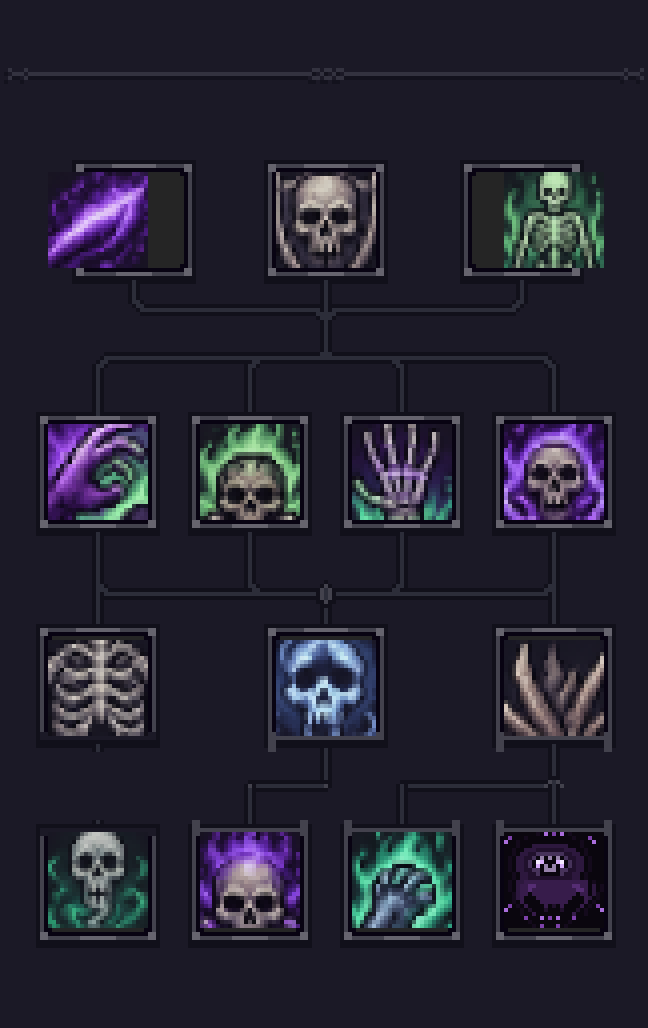
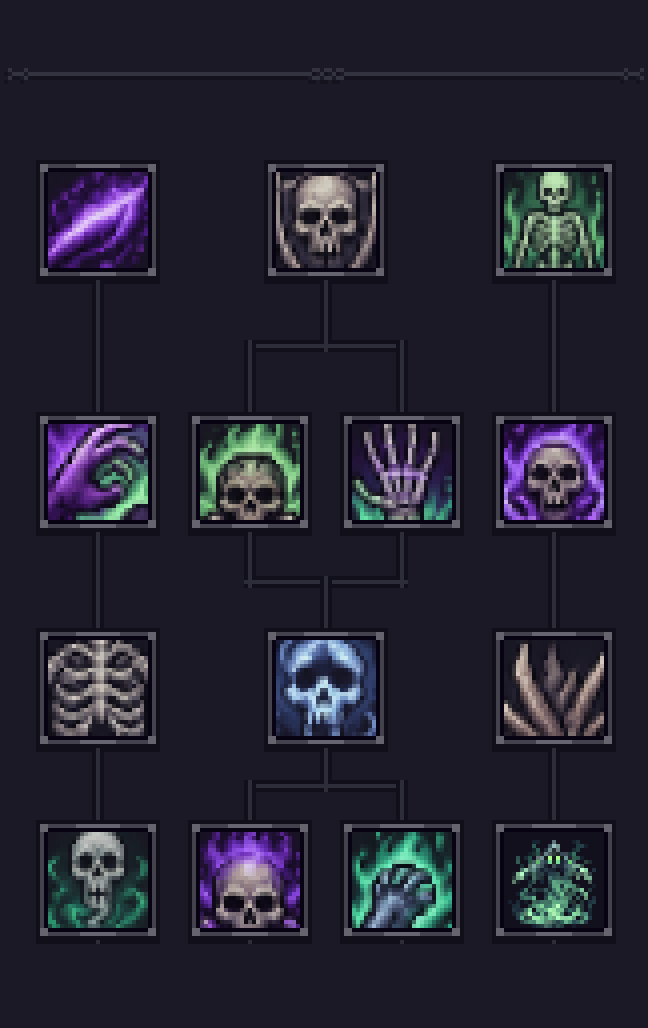
Add Summoner Pack Link and refresh Wraith previews
Add Pack Link skill and buff assets, healing summons' damage to the player.
Update Necromancy skill tree icons and add Wraith image previews.

diff --git a/summonner/src/SummonerPackLink.cs b/summonner/src/SummonerPackLink.cs
@@ -1,0 +1,84 @@
+using ModShardLauncher;
+
+namespace Summoner;
+
+/// <summary>
+/// Pack Link: while the player buff is up, a share of damage dealt by sm_summon units heals the player.
+/// Hooks after vanilla lifesteal in scr_physical_damage (attacker is <c>id</c>).
+/// </summary>
+public static class SummonerPackLink
+{
+    const string Marker = "vs_sm_pack_link_heal";
+
+    const string LifestealBlockEnd =
+        "scr_manasteal(argument1, argument0)";
+
+    public static void Patch()
+    {
+        Msl.LoadGML("gml_GlobalScript_scr_physical_damage")
+            .Apply(lines =>
+            {
+                var list = lines as IList<string> ?? lines.ToList();
+                if (list.Any(l => l.Contains(Marker, StringComparison.Ordinal)))
+                    return list;
+
+                var idx = -1;
+                for (var i = 0; i < list.Count; i++)
+                {
+                    if (list[i].Contains(LifestealBlockEnd, StringComparison.Ordinal))
+                    {
+                        idx = i;
+                        break;
+                    }
+                }
+
+                if (idx < 0)
+                    return list;
+
+                // Insert after the closing brace of the (id != argument0) block that contains lifesteal.
+                var insertAt = idx + 1;
+                while (insertAt < list.Count && list[insertAt].Trim() != "}")
+                    insertAt++;
+                if (insertAt < list.Count)
+                    insertAt++;
+
+                var indent = LeadingWhitespace(list[idx]);
+                // Match the indent of the surrounding if (_is_unit) body (one level out from lifesteal calls).
+                if (indent.Length >= 4)
+                    indent = indent[..^4];
+
+                var block = new[]
+                {
+                    $"{indent}// {Marker}",
+                    $"{indent}if (argument1 > 0 && variable_instance_exists(id, \"sm_summon\") && sm_summon && instance_exists(o_player))",
+                    $"{indent}{{",
+                    $"{indent}    var _smLink = asset_get_index(\"o_b_sm_pack_link\")",
+                    $"{indent}    if (_smLink != -1 && variable_instance_exists(o_player, \"buffs\") && scr_instance_exists_in_list(_smLink, o_player.buffs))",
+                    $"{indent}    {{",
+                    $"{indent}        var _smHeal = math_round(argument1 * 0.20)",
+                    $"{indent}        if (_smHeal > 0)",
+                    $"{indent}        {{",
+                    $"{indent}            with (o_player)",
+                    $"{indent}                scr_restore_hp(id, _smHeal, \"Pack Link\")",
+                    $"{indent}        }}",
+                    $"{indent}    }}",
+                    $"{indent}}}",
+                };
+
+                var output = new List<string>(list.Count + block.Length);
+                output.AddRange(list.Take(insertAt));
+                output.AddRange(block);
+                output.AddRange(list.Skip(insertAt));
+                return output;
+            })
+            .Save();
+    }
+
+    static string LeadingWhitespace(string line)
+    {
+        var i = 0;
+        while (i < line.Length && char.IsWhiteSpace(line[i]))
+            i++;
+        return line[..i];
+    }
+}
